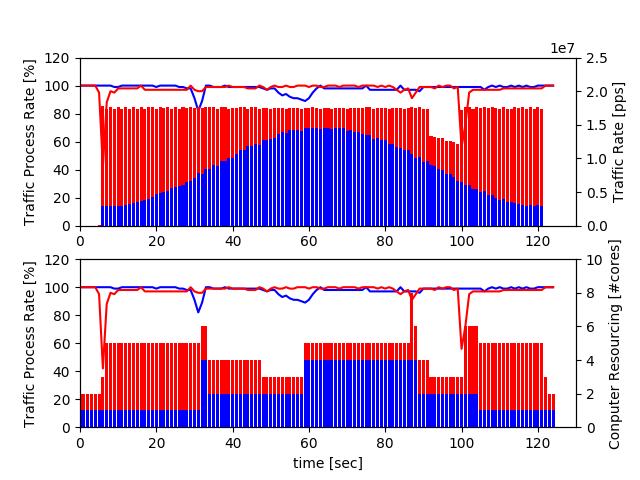
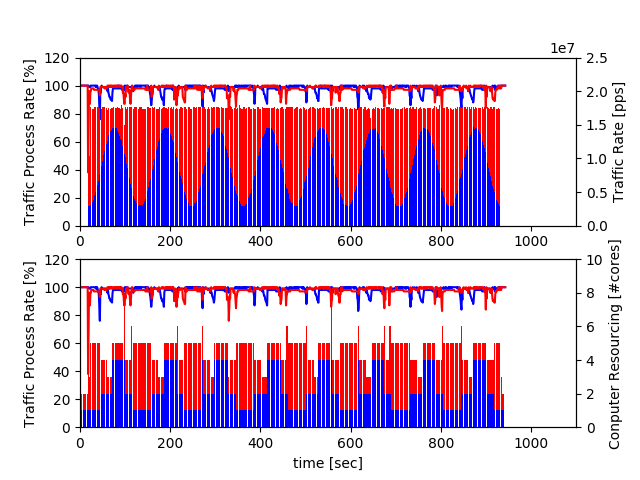
2018.01.20-05:47

Changed region(s): [[0.125, 0.1562, 0.875, 0.5312], [0.125, 0.5938, 0.875, 0.9375]]

diff --git a/playground/main.py b/playground/main.py
@@ -18,7 +18,7 @@ def main():
     vnf1core = data[:,7]
 
     xbegin = 0
-    xend   = 130
+    xend   = 1100
 
     fig, ax1 = plt.subplots(2)
     ax1[1].set_xlabel('time [sec]')
